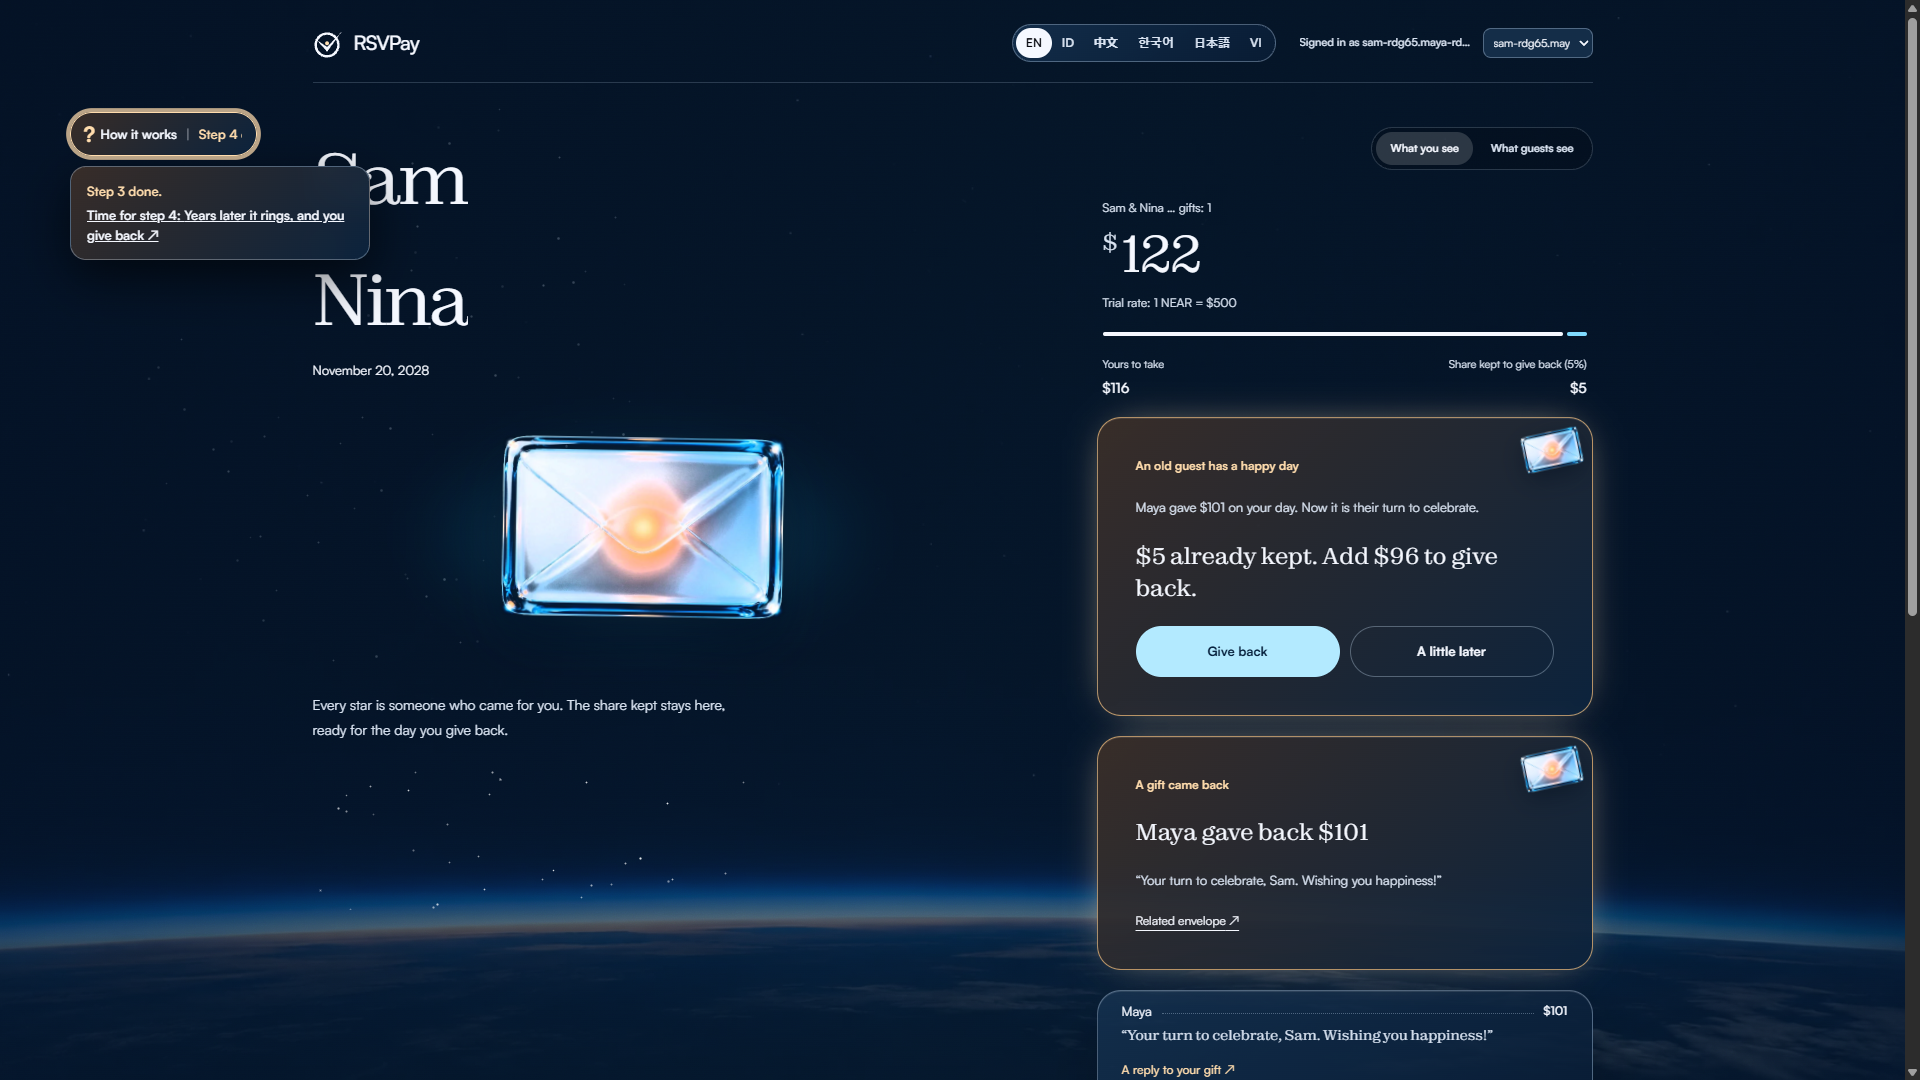
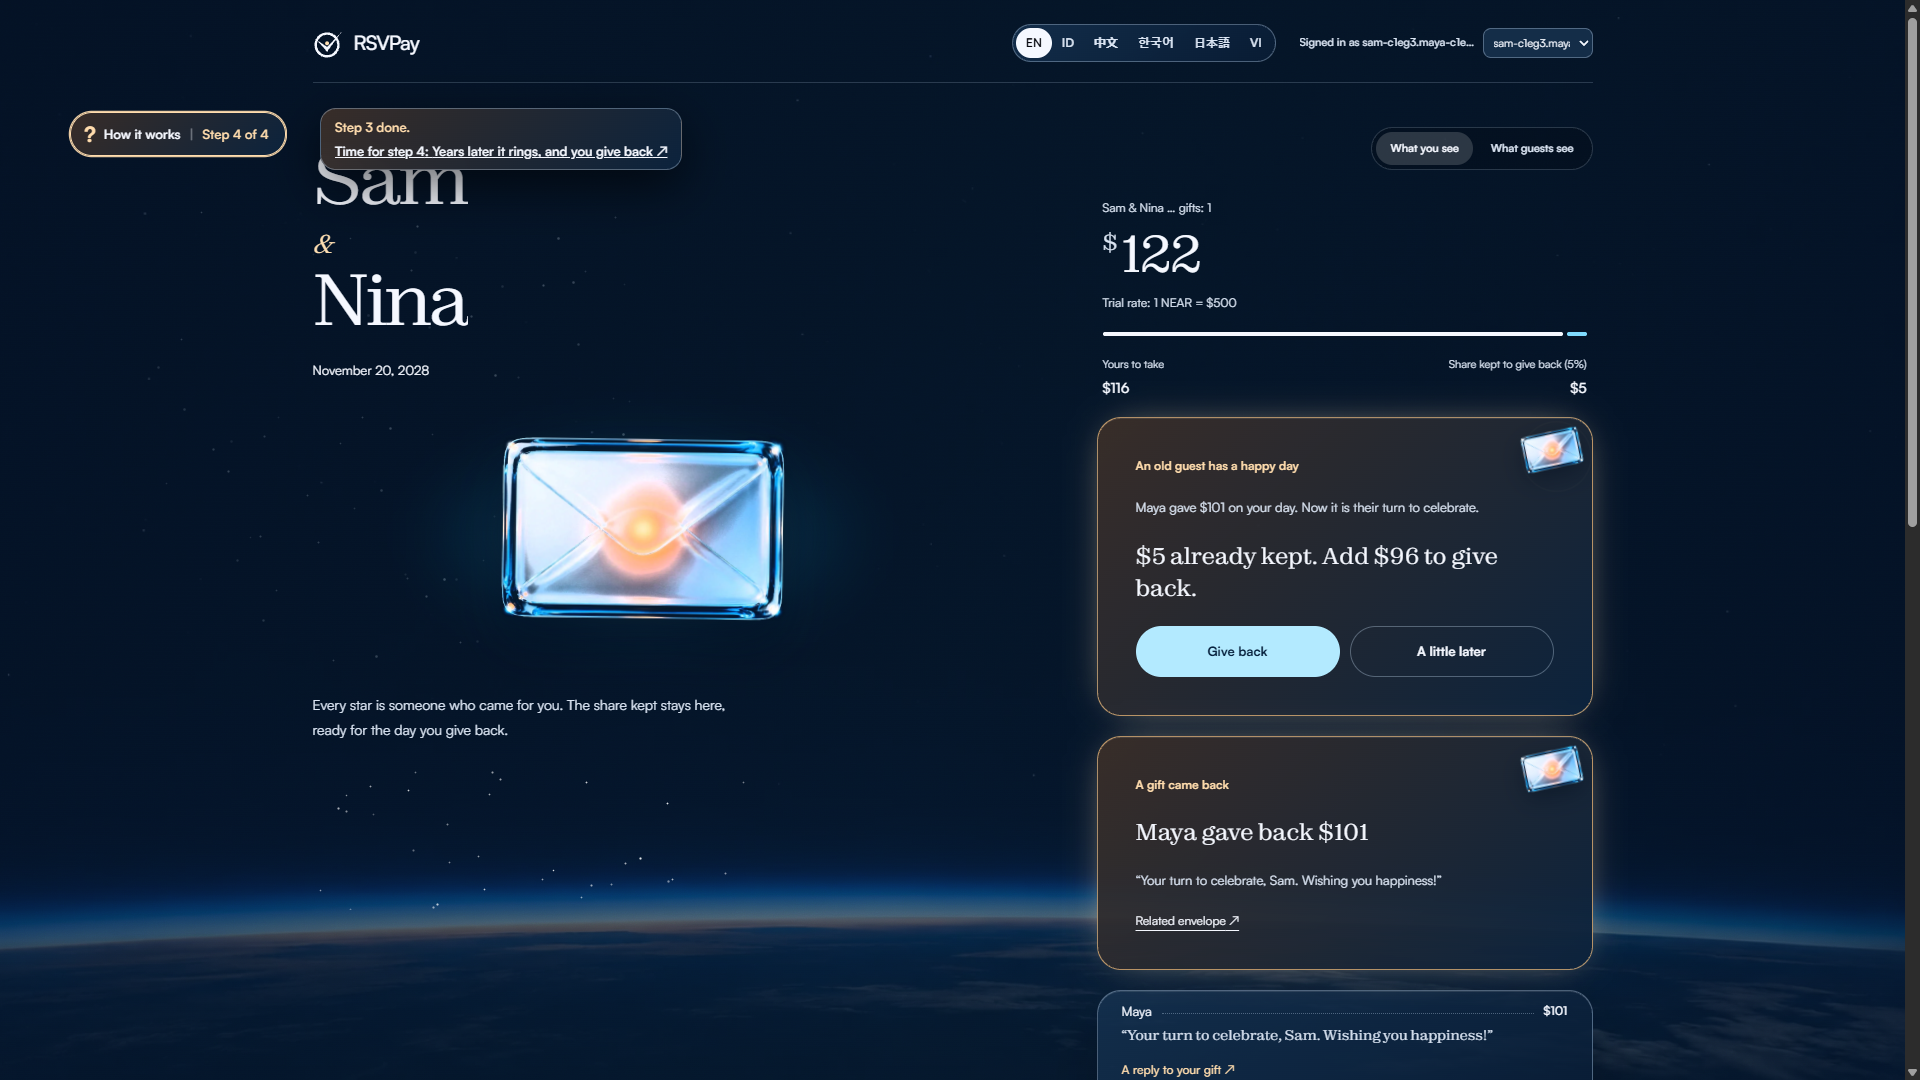
ITM-A4: kontrak pindah ke rsvpay.testnet, buku demo #3
Kontrak tanpa kunci tidak bisa ditambal, jadi perbaikan issue #1 butuh akun baru. Alamat, hash, buku demo, QR, dan bukti ikut diperbarui. Serangan live L13 ditambahkan.

Bukti: hash di rantai G2kEEJb7GzFdHD3JeiV5hKQycrRXotxZQnYQpgsv95UL sama dengan build lokal, kunci 0, siklus penuh 19 PASS, 13 serangan ditolak, coba.e2e 26,9 detik di live.

diff --git a/frontend/src/hero/chapters.copy.ts b/frontend/src/hero/chapters.copy.ts
@@ -16,8 +16,8 @@ export const CH_DATA = {
   words: ['amplop', '礼金', '축의금', 'ご祝儀', 'tiền mừng'],
   languages: ['English', 'Bahasa Indonesia', '中文', '한국어', '日本語', 'Tiếng Việt'],
   figures: ['0', '12/12', '45', '10%'],
-  account: 'amplop-c-mvznhnlx.testnet',
-  hash: '4TwL5AiugAkZSC3UEzpRyqcQdzhGK35vLLrzrTPGEe8U',
+  account: 'rsvpay.testnet',
+  hash: 'G2kEEJb7GzFdHD3JeiV5hKQycrRXotxZQnYQpgsv95UL',
   methods: ['view_access_key_list', 'view_account'],
   attacks: [
     'Seller keeps withdrawing after the sale',

diff --git a/frontend/src/hero/ch/shared.tsx b/frontend/src/hero/ch/shared.tsx
@@ -1,6 +1,6 @@
 
 export const asset = (name: string) => `${import.meta.env.BASE_URL}aset/v2/${name}.webp`;
-export const CONTRACT = 'https://testnet.nearblocks.io/address/amplop-c-mvznhnlx.testnet';
+export const CONTRACT = 'https://testnet.nearblocks.io/address/rsvpay.testnet';
 // Bundle the real document so the evidence link also works on static hosting.
 export const THREAT = `${import.meta.env.BASE_URL}threat-model.md`;
 export const THREAT_DOWNLOAD = import.meta.env.VITE_THREAT_MODEL_URL ? undefined : 'THREAT-MODEL.md';

diff --git a/frontend/src/chain/near.ts b/frontend/src/chain/near.ts
@@ -15,7 +15,7 @@ const HELPER = 'https://helper.nearprotocol.com/account';
 const PURSE = '/api/dana';
 // room for gas and storage on top of what a call sends
 const SPARE = 10n ** 23n;
-export const DEFAULT_CONTRACT = 'amplop-c-mvznhnlx.testnet';
+export const DEFAULT_CONTRACT = 'rsvpay.testnet';
 const GAS = teraToGas('100');
 const KEYS = 'amplop.kunci';
 const ACTIVE = 'amplop.akun';

diff --git a/frontend/src/lib/demo.ts b/frontend/src/lib/demo.ts
@@ -1,2 +1,2 @@
 /** The book a visitor lands on when they try being a guest. */
-export const DEMO: string = import.meta.env.VITE_DEMO_TOKEN ?? '60';
+export const DEMO: string = import.meta.env.VITE_DEMO_TOKEN ?? '3';

diff --git a/README.md b/README.md
@@ -2,9 +2,9 @@
 
 **A wedding gift that remembers, and gives back.**
 
-RSVP is the reply to a wedding invitation; here the reply is a gift, years later. The project began as *Amplop Balas*, Indonesian for "reply envelope". The contract keeps that name, `amplop-c-mvznhnlx.testnet`, because it has no keys and can never be renamed.
+RSVP is the reply to a wedding invitation; here the reply is a gift, years later. The project began as *Amplop Balas*, Indonesian for "reply envelope". The contract's internal crate keeps that name; the deployed account is `rsvpay.testnet`.
 
-[![License: MIT](https://img.shields.io/badge/license-MIT-blue)](LICENSE) [![Network](https://img.shields.io/badge/NEAR-testnet-00BFFF)](https://testnet.nearblocks.io/address/amplop-c-mvznhnlx.testnet)
+[![License: MIT](https://img.shields.io/badge/license-MIT-blue)](LICENSE) [![Network](https://img.shields.io/badge/NEAR-testnet-00BFFF)](https://testnet.nearblocks.io/address/rsvpay.testnet)
 
 At Indonesian weddings, guests give money in envelopes (*amplop*) and families keep a notebook of who gave what, so they can return the favour at the guest's own celebration years later. The notebook gets lost. RSVPay makes that notebook an NFT that holds its own money and remembers.
 
@@ -15,10 +15,10 @@ Also by the same builder: **Mintless** (*Kota Tanpa Cetak Uang*, track Games Wit
 | | |
 |---|---|
 | Live demo | https://rsvpay.vercel.app |
-| Contract (testnet) | [`amplop-c-mvznhnlx.testnet`](https://testnet.nearblocks.io/address/amplop-c-mvznhnlx.testnet), zero access keys |
+| Contract (testnet) | [`rsvpay.testnet`](https://testnet.nearblocks.io/address/rsvpay.testnet), zero access keys |
 | Standard | NEP-171, NEP-177, NEP-181 (`near-sdk` 5.30.0) |
-| Code on chain | `4TwL5AiugAkZSC3UEzpRyqcQdzhGK35vLLrzrTPGEe8U`, equal to the hash of a release build of this source |
-| Tests | 45 Rust, 68 web, 12 live attacks, 13 of 14 browser steps, and the one-button story run on the live site in 28.6 s to 60.9 s, depending on the public testnet ([reports](docs/evidence/)) |
+| Code on chain | `G2kEEJb7GzFdHD3JeiV5hKQycrRXotxZQnYQpgsv95UL`, equal to the hash of a release build of this source |
+| Tests | 48 Rust, 68 web, 13 live attacks, 13 of 14 browser steps, and the one-button story run on the live site in 28.6 s to 60.9 s, depending on the public testnet ([reports](docs/evidence/)) |
 | Docs | [Architecture](docs/ARCHITECTURE.md) · [Threat model](docs/THREAT-MODEL.md) · [Design](docs/DESIGN.md) · [Roadmap](docs/ROADMAP.md) · [Claims](CLAIMS.md) · [Changelog](CHANGELOG.md) · [Evidence](docs/evidence/) |
 
 ## Try the whole story on one device
@@ -36,7 +36,7 @@ To watch instead of waiting on the network, open **How it works** on any inner p
 To inspect the fixed deployment's keys:
 
 ```bash
-curl -s https://test.rpc.fastnear.com -H 'Content-Type: application/json' -d '{"jsonrpc":"2.0","id":1,"method":"query","params":{"request_type":"view_access_key_list","finality":"final","account_id":"amplop-c-mvznhnlx.testnet"}}'
+curl -s https://test.rpc.fastnear.com -H 'Content-Type: application/json' -d '{"jsonrpc":"2.0","id":1,"method":"query","params":{"request_type":"view_access_key_list","finality":"final","account_id":"rsvpay.testnet"}}'
 ```
 
 The read-only check on 5 November 2026 (Asia/Jakarta) returned `"keys":[]`.
@@ -82,7 +82,7 @@ Each reply is itself an entry with its own seed, so the chain of giving back can
 
 ## Try it
 
-Run the frontend locally as described below. The app uses only the fixed testnet deployment `amplop-c-mvznhnlx.testnet`. It offers English, Indonesian, Chinese, Korean, Japanese and Vietnamese. Rupiah amounts use a labelled display rate of 1 NEAR = $500; testnet NEAR has no market price.
+Run the frontend locally as described below. The app uses only the fixed testnet deployment `rsvpay.testnet`. It offers English, Indonesian, Chinese, Korean, Japanese and Vietnamese. Rupiah amounts use a labelled display rate of 1 NEAR = $500; testnet NEAR has no market price.
 
 | Do | See |
 |---|---|

diff --git a/CLAIMS.md b/CLAIMS.md
@@ -2,14 +2,14 @@
 
 Every claim this project makes, and where to check it. Checked on 5 November 2026 unless a row says otherwise. Where this file and the chain disagree, trust the chain.
 
-Contract: [`amplop-c-mvznhnlx.testnet`](https://testnet.nearblocks.io/address/amplop-c-mvznhnlx.testnet). Live site: https://rsvpay.vercel.app
+Contract: [`rsvpay.testnet`](https://testnet.nearblocks.io/address/rsvpay.testnet). Live site: https://rsvpay.vercel.app. The contract moved here on 7 November to close issue #1 (T18); reports dated earlier ran against the previous deployment, `amplop-c-mvznhnlx.testnet`, which differs by that one check.
 
 ## On chain
 
 | Claim | Proof | Check it yourself |
 |---|---|---|
 | Nobody can change the rules. The contract account has zero access keys. | RPC answer on 5 November at block 276,347,018: 0 keys. Attack L1 in [`attacks-report.txt`](docs/evidence/attacks-report.txt). | The `curl` line in the [README](README.md), or **Ask the network now** on the site |
-| The code on chain is this source. | Hash `4TwL5AiugAkZSC3UEzpRyqcQdzhGK35vLLrzrTPGEe8U` read from RPC on 5 November, equal to the local release build in [`measured-testnet.txt`](docs/evidence/measured-testnet.txt) (4 November). | `cd scripts && node measure.mjs` |
+| The code on chain is this source. | Hash `G2kEEJb7GzFdHD3JeiV5hKQycrRXotxZQnYQpgsv95UL` read from RPC on 7 November, equal to the local release build in [`measured-testnet.txt`](docs/evidence/measured-testnet.txt) (4 November). | `cd scripts && node measure.mjs` |
 | 12 of 12 live attacks fail against the deployed contract. | [`attacks-report.txt`](docs/evidence/attacks-report.txt). Nine are refused calls; L1, L7 and L10 confirm the expected safe state. | `cd scripts && node attacks.mjs` |
 | The rights move with the NFT, and the old holder is locked out. | Steps A11 and A12 in [`full-cycle-report.txt`](docs/evidence/full-cycle-report.txt); test `old_owner_cannot_withdraw_after_transfer`; attack L9. | `cd contracts && cargo test` |
 | A kept share can only go to the guest who gave it. | Tests `withdraw_pays_only_free_money_and_never_touches_seeds`, `reply_cannot_be_redirected_to_someone_else`; attacks L6, L11. | same |

diff --git a/contracts/README.md b/contracts/README.md
@@ -5,7 +5,7 @@ Wedding-gift NFT that holds its own money, remembers who gave, and replies when 
 ```
 rustup target add wasm32-unknown-unknown
 set AWS_LC_SYS_PREBUILT_NASM=1        # Windows only (avoids needing NASM)
-cargo test                            # 44 unit tests
+cargo test                            # 48 unit tests
 cargo build --target wasm32-unknown-unknown --release   # .cargo/config.toml adds --cfg near
 ```
 Without `--cfg near` every on-chain panic loses its message (`WasmTrap(Unreachable)`). On-chain cycle: `../scripts/spk-a1.mjs` (needs `npm ci` in `../scripts`). Design: `../docs/ARCHITECTURE.md`.

diff --git a/CHANGELOG.md b/CHANGELOG.md
@@ -2,6 +2,12 @@
 
 What changed, by day. The project started on 3 November 2026. Commit messages are in Indonesian; this file is the English summary.
 
+## 2026-11-07
+
+### Security
+- `reciprocate` now also refuses a target amplop that is mid-transfer. Before this, a host could park a guest's seed in a decoy that only looked like the guest's during `nft_transfer_call`, take the decoy back, and withdraw the seed. Reported in issue #1 (T18).
+- The contract moved to `rsvpay.testnet`, because a keyless contract cannot be patched. The demo book is now #3.
+
 ## 2026-11-06
 
 ### Added
